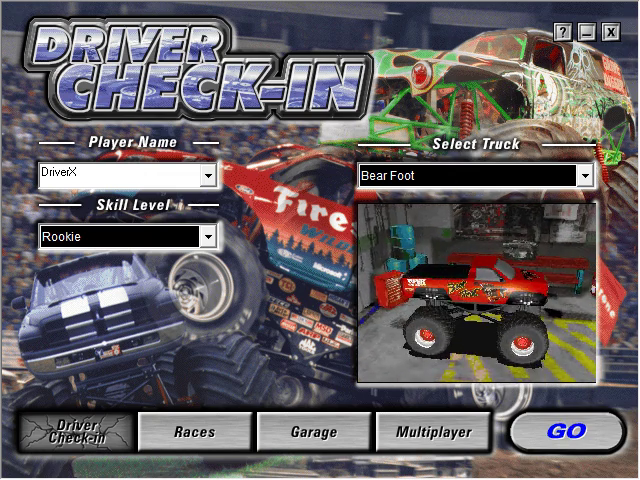
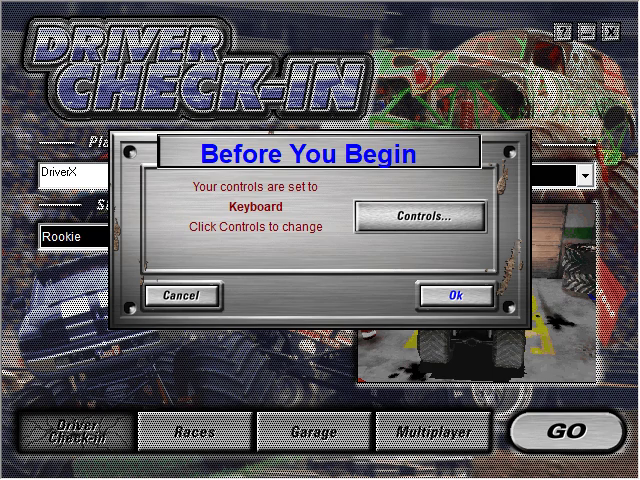
Centre the headless dialog on the main window
MFC centred "Before You Begin" on the desktop rather than on the cloaked
main window, so it opened on another monitor and the recording drew it off
the top-left edge. When a dialog activates off the main window, the
headless CBT hook centres it there.

The "garbled text strip" was the race's caption ("Cockpit of Bear Foot")
caught mid slide-in; it is not a bug and comes off the known issues.

Needs pcrecomp #81 (https://github.com/sp00nznet/pcrecomp/pull/81).

diff --git a/src/runtime/ddraw.c b/src/runtime/ddraw.c
@@ -777,6 +777,14 @@ static LRESULT CALLBACK cloak_hook(int code, WPARAM w, LPARAM l) {
         BOOL on = TRUE;
         DwmSetWindowAttribute((HWND)w, DWMWA_CLOAK, &on, sizeof on);
     }
+    /* MFC centres a dialog on the desktop, not on its owner, which it takes
+     * for unavailable: it opened on another monitor than the cloaked main
+     * window. One that is not over the main window is centred on it. */
+    RECT d, m, x;
+    if (code == HCBT_ACTIVATE && (HWND)w != g_wnd && g_wnd && GetWindowRect((HWND)w, &d) &&
+        GetWindowRect(g_wnd, &m) && !IntersectRect(&x, &d, &m))
+        SetWindowPos((HWND)w, NULL, (m.left + m.right - (d.right - d.left)) / 2,
+                     (m.top + m.bottom - (d.bottom - d.top)) / 2, 0, 0, SWP_NOSIZE | SWP_NOZORDER | SWP_NOACTIVATE);
     return CallNextHookEx(NULL, code, w, l);
 }
 

diff --git a/docs/architecture.md b/docs/architecture.md
@@ -73,8 +73,10 @@ What the host changes about the game's world (`src/runtime/host.c`, `ddraw.c`):
 - **Every top-level window is cloaked when headless.** GO opens a modal MFC
   dialog ("Before You Begin"), made with `CreateDialogIndirectParamA`, which
   the `CreateWindowExA` shim never sees. A CBT hook on the game thread cloaks
-  each one as it is created. The recorder draws the active popup over the
-  main window, and `--click` goes to it.
+  each one as it is created. MFC centres such a dialog on the desktop rather
+  than on the cloaked main window, so it opened on another monitor; when it
+  activates off the main window the hook centres it there. The recorder
+  draws the active popup over the main window, and `--click` goes to it.
 - **Keys go to the focus window.** The race is a view inside an MDI frame,
   and reads its keys from window messages: posted to the frame they did
   nothing. `--key` posts to the game thread's focus window

diff --git a/CHANGELOG.md b/CHANGELOG.md
@@ -22,6 +22,9 @@ Format: [Keep a Changelog](https://keepachangelog.com/en/1.1.0/); versions follo
   `GetKeyState` sees the keys `--key` holds.
 
 ### Fixed
+- Headless, a dialog that opens off the main window ("Before You Begin" opened
+  on another monitor) is centred on it, so the recording shows it where it
+  belongs.
 - The game's `ChangeDisplaySettingsA`, fetched with `GetProcAddress`, no
   longer changes the real desktop's mode. It was switching it over and over
   during headless runs.

diff --git a/ROADMAP.md b/ROADMAP.md
@@ -2,8 +2,6 @@
 
 ## Next
 - Finish a race on a script: a lap's worth of `--key` steering.
-- The garbled text strip along the bottom of the race screen.
-- The dialog is drawn over the main window but not at its real position.
 - F4 full screen: the host's DirectDraw, as for the videos.
 - `Setup.cmd` Quick start (REPO_RULES section 5), the same steps as the README's Step by step.
 - A conformance harness: milestones (intro, title menu, race start) checked from a headless run.

diff --git a/README.md b/README.md
@@ -26,7 +26,6 @@ finished yet.
 | Title menu (MFC + GDI) | done |
 | Driver Check-in (3D truck preview), GO, "Before You Begin" | done |
 | A race on the software renderer (windowed, GDI) | drives; not finished yet |
-| Text strip along the bottom of the race screen | garbled |
 | Hardware renderers (`TRID3D.DLL`, Glide) | not started |
 
 Needs pcrecomp [#81](https://github.com/sp00nznet/pcrecomp/pull/81) (thunk
